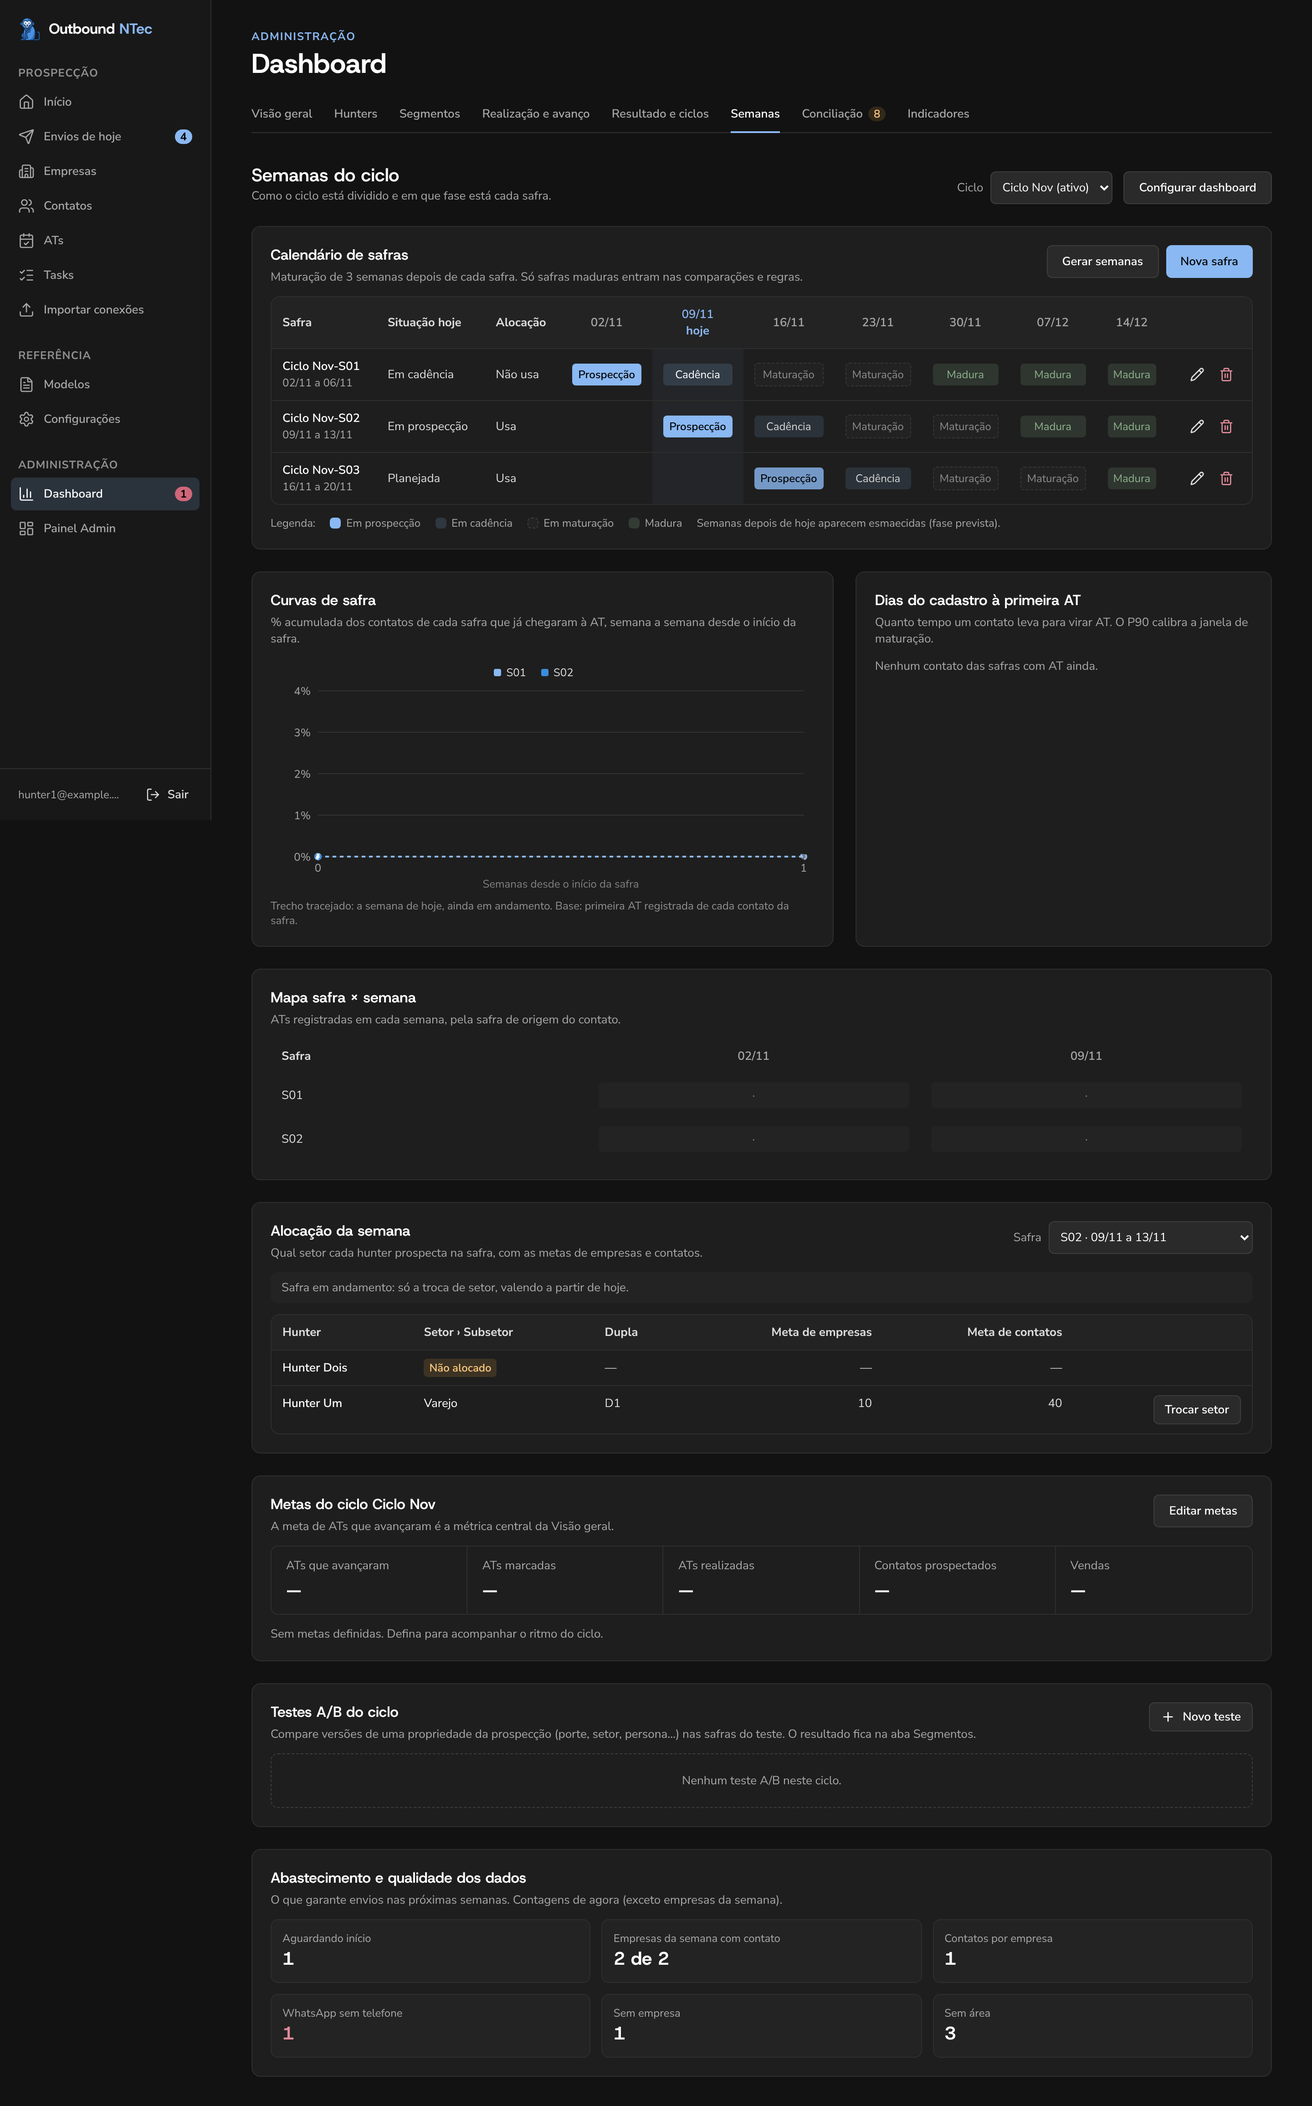
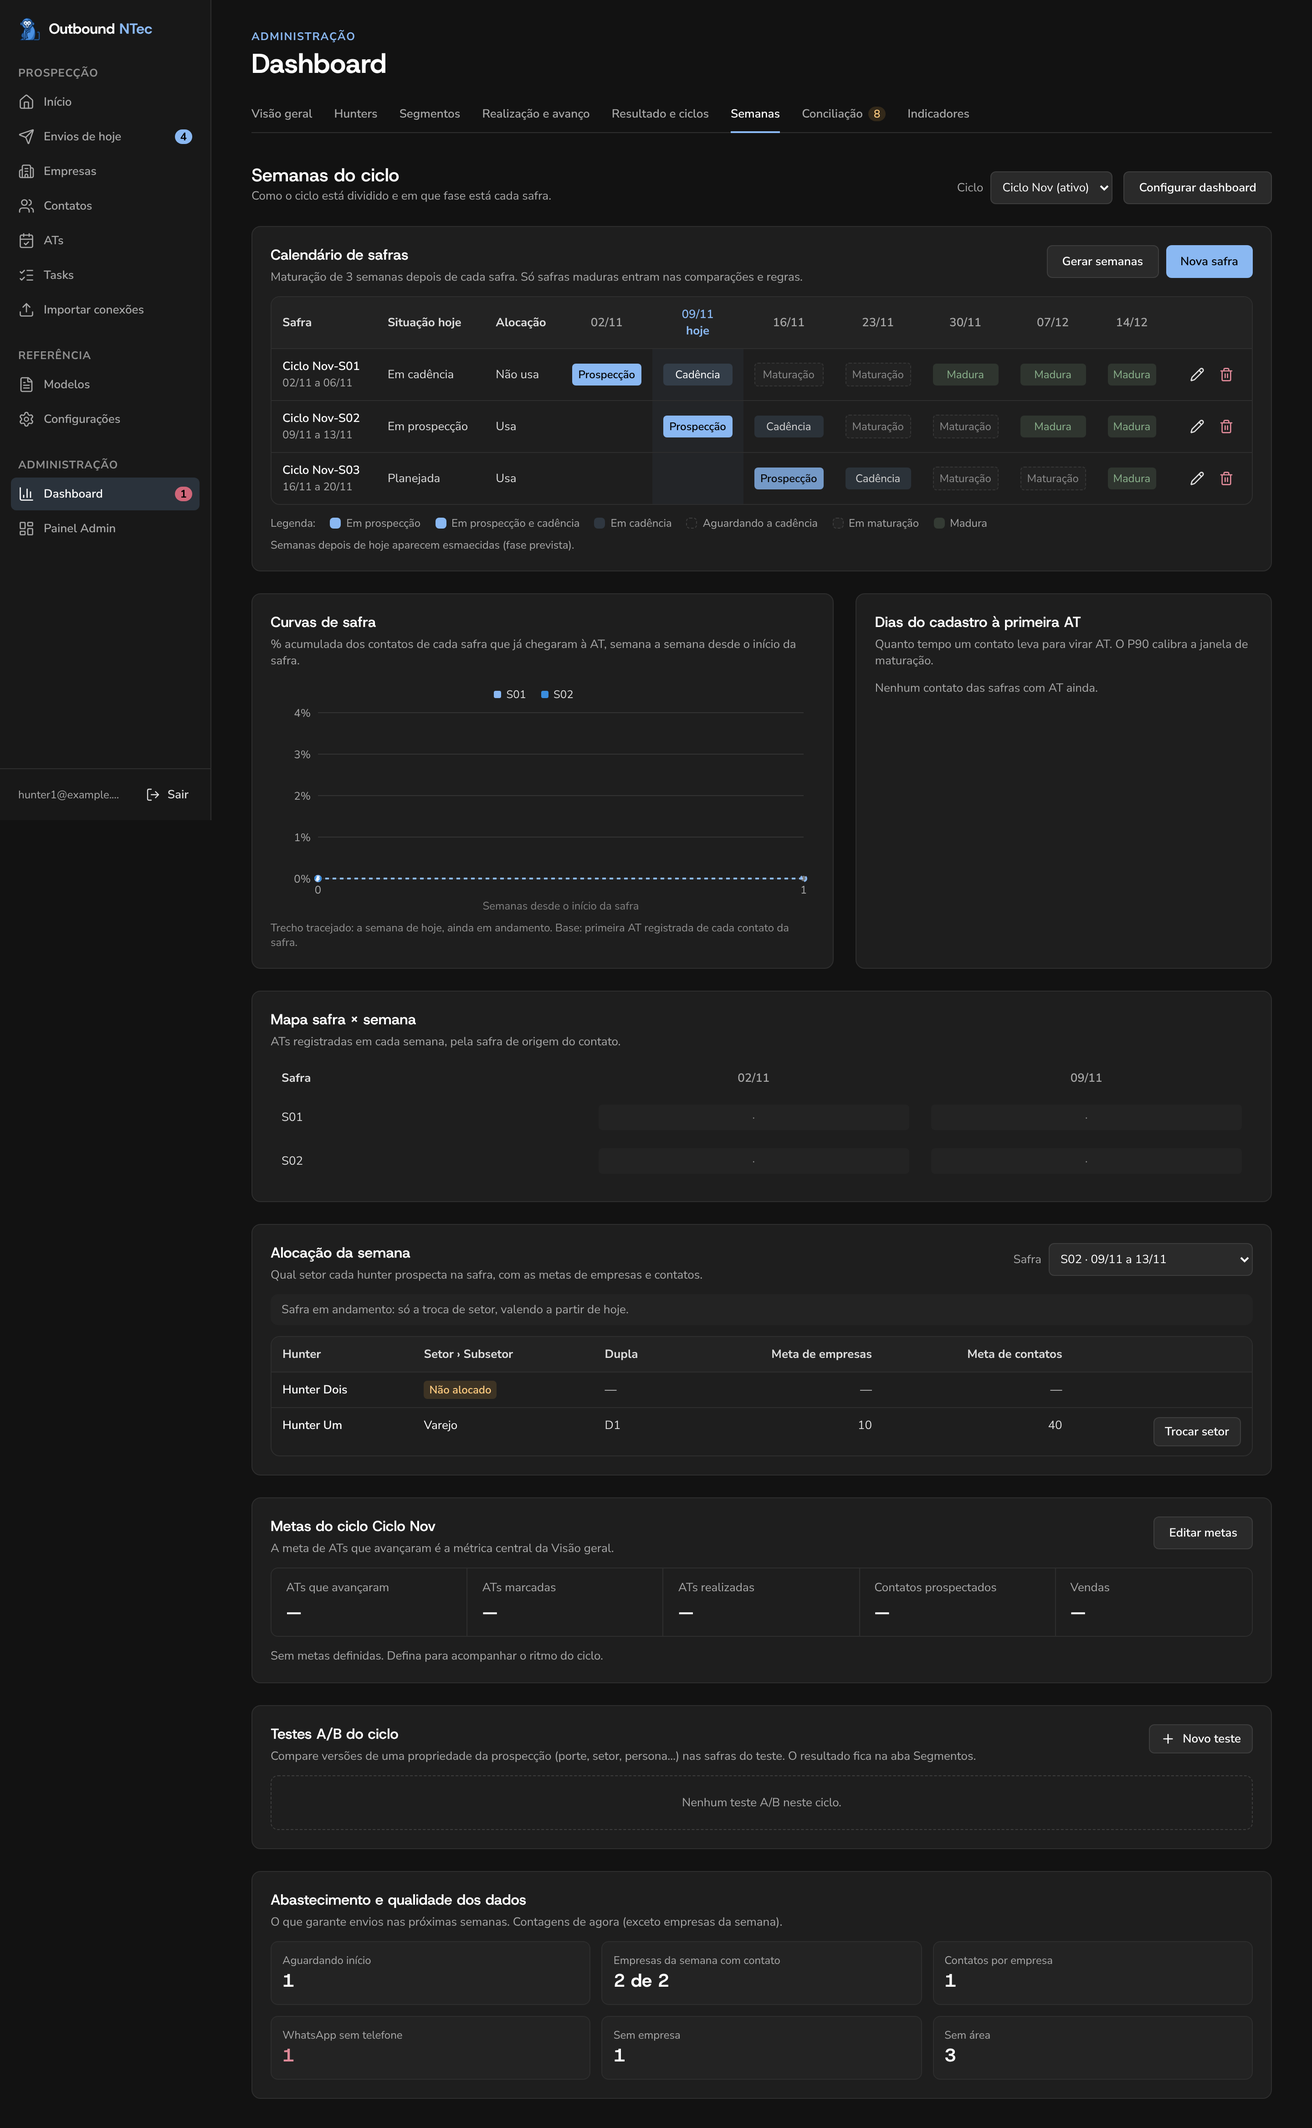
feat(painel): escolher a semana da cadência e marcar pausas nas safras
O diálogo da safra escolhe a semana da cadência; a prévia de "Gerar semanas"
marca, por semana, se gera a safra (desmarcada = pausa, ex.: provas) e se a
cadência é na mesma semana. O calendário mostra "Prosp. + cadência" e
"Pausa".

Claude-Session: https://claude.ai/code/session_0137A66yoRLBZ4ngndr6bSBF

diff --git a/src/components/dashboard/semanas/GerarSemanasDialog.tsx b/src/components/dashboard/semanas/GerarSemanasDialog.tsx
@@ -8,6 +8,7 @@ import {
   DialogHeader,
   DialogTitle,
 } from "@/components/ui/dialog";
+import { Checkbox } from "@/components/ui/checkbox";
 import { Input } from "@/components/ui/input";
 import { Label } from "@/components/ui/label";
 import { formatBR } from "@/lib/cadencia";
@@ -30,7 +31,11 @@ export function GerarSemanasDialog({
   atePadrao: string;
   /** Safras de todos os ciclos. */
   safras: readonly Safra[];
-  onGerar: (inicio: string, ate: string) => Promise<number>;
+  onGerar: (
+    inicio: string,
+    ate: string,
+    opcoes: { pausas: string[]; mesmaSemana: string[] },
+  ) => Promise<number>;
   onClose: () => void;
 }) {
   const [inicio, setInicio] = useState(inicioPadrao);
@@ -38,7 +43,16 @@ export function GerarSemanasDialog({
   const [erro, setErro] = useState<string | null>(null);
   const [salvando, setSalvando] = useState(false);
   const validas = !!inicio && !!ate && inicio <= ate;
-  const previa = validas ? semanasSugeridas(inicio, ate, safras, periodId) : [];
+  // Semanas sem trabalho (provas, recesso) e as de prospecção e cadência na mesma semana.
+  const [pausas, setPausas] = useState<string[]>([]);
+  const [mesmaSemana, setMesmaSemana] = useState<string[]>([]);
+  const candidatas = validas ? semanasSugeridas(inicio, ate, safras, periodId) : [];
+  const previa = validas
+    ? semanasSugeridas(inicio, ate, safras, periodId, { pausas, mesmaSemana })
+    : [];
+  const daSemana = new Map(previa.map((s) => [s.inicio, s]));
+  const alternar = (lista: string[], semana: string, on: boolean) =>
+    on ? [...lista, semana] : lista.filter((x) => x !== semana);
 
   async function enviar(e: FormEvent) {
     e.preventDefault();
@@ -47,7 +61,7 @@ export function GerarSemanasDialog({
     setSalvando(true);
     setErro(null);
     try {
-      await onGerar(inicio, ate);
+      await onGerar(inicio, ate, { pausas, mesmaSemana });
       onClose();
     } catch (err) {
       setErro(errorMessage(err));
@@ -60,7 +74,7 @@ export function GerarSemanasDialog({
   const ultima = previa.at(-1);
   return (
     <Dialog open onOpenChange={(o) => !o && onClose()}>
-      <DialogContent className="max-w-md">
+      <DialogContent className="max-h-[90vh] max-w-xl overflow-y-auto">
         <DialogHeader>
           <DialogTitle>Gerar semanas do {nomeCiclo}</DialogTitle>
           <DialogDescription>
@@ -96,8 +110,78 @@ export function GerarSemanasDialog({
                 : `Vai criar ${previa.length} safras: ${rotuloSafra(primeira.numero)} (${formatBR(primeira.inicio)}) a ${rotuloSafra(ultima.numero)} (${formatBR(ultima.inicio)}).`
               : "Nenhuma semana nova nesse intervalo."}
           </p>
+          {candidatas.length > 0 && (
+            <div className="overflow-x-auto rounded-lg border">
+              <table className="table-dense w-full">
+                <caption className="sr-only">Semanas do intervalo</caption>
+                <thead className="bg-surface-inset">
+                  <tr>
+                    <th scope="col" className="px-3 py-1.5 text-left">
+                      Semana
+                    </th>
+                    <th scope="col" className="px-3 py-1.5 text-center">
+                      Gerar
+                    </th>
+                    <th scope="col" className="px-3 py-1.5 text-center">
+                      Cadência na mesma semana
+                    </th>
+                    <th scope="col" className="px-3 py-1.5 text-left">
+                      Resultado
+                    </th>
+                  </tr>
+                </thead>
+                <tbody>
+                  {candidatas.map(({ inicio: semana }) => {
+                    const s = daSemana.get(semana);
+                    const dm = formatBR(semana).slice(0, 5);
+                    return (
+                      <tr key={semana}>
+                        <th scope="row" className="px-3 py-1.5 text-left font-normal">
+                          {dm}
+                        </th>
+                        <td className="px-3 py-1.5 text-center">
+                          <Checkbox
+                            aria-label={`Gerar a semana de ${dm}`}
+                            checked={!!s}
+                            onCheckedChange={(v) => setPausas(alternar(pausas, semana, v !== true))}
+                          />
+                        </td>
+                        <td className="px-3 py-1.5 text-center">
+                          <Checkbox
+                            aria-label={`Prospecção e cadência na mesma semana em ${dm}`}
+                            checked={mesmaSemana.includes(semana)}
+                            disabled={!s}
+                            onCheckedChange={(v) =>
+                              setMesmaSemana(alternar(mesmaSemana, semana, v === true))
+                            }
+                          />
+                        </td>
+                        <td className="px-3 py-1.5 text-muted-foreground">
+                          {s ? (
+                            <>
+                              <span className="font-semibold text-heading">
+                                {rotuloSafra(s.numero)}
+                              </span>{" "}
+                              · cadência{" "}
+                              {s.cadencia_em === s.inicio
+                                ? "na mesma semana"
+                                : `em ${formatBR(s.cadencia_em).slice(0, 5)}`}
+                            </>
+                          ) : (
+                            "Pausa (sem safra)"
+                          )}
+                        </td>
+                      </tr>
+                    );
+                  })}
+                </tbody>
+              </table>
+            </div>
+          )}
           <p className="text-caption text-muted-foreground">
-            As safras novas usam alocação. Desligue depois nas semanas anteriores ao esquema.
+            Desmarque "Gerar" nas semanas sem trabalho (ex.: provas): elas ficam sem safra e a
+            cadência da safra anterior passa para a próxima semana gerada. As safras novas usam
+            alocação; desligue depois nas semanas anteriores ao esquema.
           </p>
           {erro && (
             <p role="alert" className="text-dense text-destructive-text">

diff --git a/src/components/dashboard/semanas/SafraDialog.tsx b/src/components/dashboard/semanas/SafraDialog.tsx
@@ -11,6 +11,7 @@ import {
 } from "@/components/ui/dialog";
 import { Input } from "@/components/ui/input";
 import { Label } from "@/components/ui/label";
+import { NativeSelect } from "@/components/ui/native-select";
 import { addDaysISO, formatBR } from "@/lib/cadencia";
 import { erroSafra, rotuloSafra, type Safra, type SafraForm } from "@/lib/safras";
 import { errorMessage } from "@/lib/utils";
@@ -57,6 +58,14 @@ export function SafraDialog({
     }
   }
 
+  const semanasAteACadencia = f.inicio
+    ? Math.max(
+        0,
+        Math.round(
+          (Date.parse(f.cadencia_em || f.inicio) - Date.parse(f.inicio)) / (7 * 86_400_000),
+        ),
+      )
+    : 1;
   return (
     <Dialog open onOpenChange={(o) => !o && onClose()}>
       <DialogContent className="max-w-md">
@@ -89,8 +98,15 @@ export function SafraDialog({
                 value={f.inicio}
                 onChange={(e) => {
                   const inicio = e.target.value;
-                  // Ao trocar o início, o fim acompanha (sexta da mesma semana).
-                  setF({ ...f, inicio, fim: inicio ? addDaysISO(inicio, 4) : f.fim });
+                  // Ao trocar o início, o fim (sexta) e a cadência acompanham.
+                  setF({
+                    ...f,
+                    inicio,
+                    fim: inicio ? addDaysISO(inicio, 4) : f.fim,
+                    cadencia_em: inicio
+                      ? addDaysISO(inicio, semanasAteACadencia * 7)
+                      : f.cadencia_em,
+                  });
                 }}
               />
             </div>
@@ -103,6 +119,33 @@ export function SafraDialog({
                 onChange={(e) => setF({ ...f, fim: e.target.value })}
               />
             </div>
+          </div>
+          <div className="space-y-1.5">
+            <Label htmlFor="safra-cadencia" className="block">
+              Cadência
+            </Label>
+            <NativeSelect
+              id="safra-cadencia"
+              className="w-full"
+              value={String(semanasAteACadencia)}
+              onChange={(e) =>
+                setF({ ...f, cadencia_em: addDaysISO(f.inicio, Number(e.target.value) * 7) })
+              }
+              aria-describedby="safra-cadencia-ajuda"
+            >
+              {[0, 1, 2, 3, 4].map((k) => (
+                <option key={k} value={k}>
+                  {k === 0
+                    ? "Na mesma semana da prospecção"
+                    : `${k === 1 ? "Semana seguinte" : `${k} semanas depois`}${f.inicio ? ` (${formatBR(addDaysISO(f.inicio, k * 7)).slice(0, 5)})` : ""}`}
+                </option>
+              ))}
+            </NativeSelect>
+            <p id="safra-cadencia-ajuda" className="text-caption text-muted-foreground">
+              Depois de uma semana sem trabalho (ex.: provas), a cadência vai para a próxima semana
+              de trabalho. A maturação conta da semana da prospecção (ou da cadência, se for na
+              mesma semana).
+            </p>
           </div>
           <div className="flex items-start gap-2">
             <Checkbox

diff --git a/e2e/dashboard-semanas.spec.ts b/e2e/dashboard-semanas.spec.ts
@@ -51,6 +51,9 @@ test.describe("Dashboard › Semanas", () => {
     expect(await mutations()).toEqual([]);
 
     await dialog.getByLabel("Início (segunda)").fill("2026-11-23");
+    // Padrão: cadência na semana seguinte; aqui, prospecção e cadência na mesma semana.
+    await expect(dialog.getByLabel("Cadência")).toHaveValue("1");
+    await dialog.getByLabel("Cadência").selectOption({ label: "Na mesma semana da prospecção" });
     await dialog.getByRole("button", { name: "Criar safra" }).click();
     await expect(page.getByText("S04 criada")).toBeVisible();
     const [m] = await mutations();
@@ -60,6 +63,7 @@ test.describe("Dashboard › Semanas", () => {
       inicio: "2026-11-23",
       fim: "2026-11-27",
       usa_alocacao: true,
+      cadencia_em: "2026-11-23",
       period_id: P1,
     });
   });
@@ -78,6 +82,33 @@ test.describe("Dashboard › Semanas", () => {
     expect(JSON.parse(m!.body).map((s: { numero: number; inicio: string }) => s.inicio)).toEqual([
       "2026-11-23",
       "2026-11-30",
+    ]);
+  });
+
+  test("gera semanas com uma pausa (provas) e a cadência na próxima semana gerada", async ({
+    page,
+  }) => {
+    await page.goto("/dashboard?aba=semanas");
+    await page.getByRole("button", { name: "Gerar semanas" }).click();
+    const dialog = page.getByRole("dialog", { name: "Gerar semanas do Ciclo Nov" });
+    await dialog.getByLabel("Até").fill("2026-12-07");
+    await dialog.getByRole("checkbox", { name: "Gerar a semana de 30/11" }).uncheck();
+    await dialog
+      .getByRole("checkbox", { name: "Prospecção e cadência na mesma semana em 23/11" })
+      .check();
+    await expect(dialog.getByRole("row", { name: /^30\/11/ })).toContainText("Pausa (sem safra)");
+    await expect(dialog.getByRole("row", { name: /^23\/11/ })).toContainText(
+      "S04 · cadência na mesma semana",
+    );
+    await expect(dialog.getByRole("row", { name: /^07\/12/ })).toContainText(
+      "S05 · cadência em 14/12",
+    );
+    await dialog.getByRole("button", { name: "Gerar semanas" }).click();
+    await expect(page.getByText("2 safras criadas")).toBeVisible();
+    const [m] = await mutations();
+    expect(JSON.parse(m!.body)).toEqual([
+      expect.objectContaining({ numero: 4, inicio: "2026-11-23", cadencia_em: "2026-11-23" }),
+      expect.objectContaining({ numero: 5, inicio: "2026-12-07", cadencia_em: "2026-12-14" }),
     ]);
   });
 

diff --git a/src/components/dashboard/semanas/CalendarioSafras.tsx b/src/components/dashboard/semanas/CalendarioSafras.tsx
@@ -16,17 +16,31 @@ type Fase = NonNullable<CelulaSafra["fase"]>;
 /** Cor de cada fase (DESIGN.md, seção 6c): a prospecção é a única cheia, para saltar à vista. */
 const FASE_CLASSE: Record<Fase, string> = {
   em_prospeccao: "bg-primary text-primary-foreground font-semibold",
+  // Mesma cor da prospecção, com contorno para distinguir na legenda.
+  em_prospeccao_cadencia:
+    "bg-primary text-primary-foreground font-semibold ring-2 ring-inset ring-primary-soft",
+  // Semana sem trabalho entre a prospecção e a cadência (ex.: provas).
+  aguardando_cadencia: "border border-dashed border-input text-subtle-foreground",
   em_cadencia: "bg-primary-soft text-heading",
   em_maturacao: "border border-dashed border-input bg-surface-inset text-muted-foreground",
   madura: "bg-success-soft text-success",
 };
 const FASE_CURTA: Record<Fase, string> = {
   em_prospeccao: "Prospecção",
+  em_prospeccao_cadencia: "Prosp. + cadência",
+  aguardando_cadencia: "Pausa",
   em_cadencia: "Cadência",
   em_maturacao: "Maturação",
   madura: "Madura",
 };
-const LEGENDA: Fase[] = ["em_prospeccao", "em_cadencia", "em_maturacao", "madura"];
+const LEGENDA: Fase[] = [
+  "em_prospeccao",
+  "em_prospeccao_cadencia",
+  "em_cadencia",
+  "aguardando_cadencia",
+  "em_maturacao",
+  "madura",
+];
 
 const ddmm = (iso: string) => formatBR(iso).slice(0, 5);
 

diff --git a/src/components/dashboard/hunters/FichaHunter.tsx b/src/components/dashboard/hunters/FichaHunter.tsx
@@ -130,16 +130,18 @@ export function FichaHunter({
           <section aria-label="Fila de cadência" className="rounded-lg border p-4">
             <h3 className="text-dense font-semibold text-heading">
               Fila de cadência
-              {d.safraAnterior && (
+              {d.safraCadencia && (
                 <span className="font-normal text-muted-foreground">
                   {" "}
-                  · {rotuloSafra(d.safraAnterior.numero)} ({ddmm(d.safraAnterior.inicio)} a{" "}
-                  {ddmm(d.safraAnterior.fim)})
+                  · {rotuloSafra(d.safraCadencia.numero)} ({ddmm(d.safraCadencia.inicio)} a{" "}
+                  {ddmm(d.safraCadencia.fim)})
                 </span>
               )}
             </h3>
-            {!d.safraAnterior && (
-              <p className="mt-1 text-dense text-muted-foreground">Primeira safra do ciclo.</p>
+            {!d.safraCadencia && (
+              <p className="mt-1 text-dense text-muted-foreground">
+                Nenhuma safra em cadência nesta semana.
+              </p>
             )}
             <dl className="mt-3 grid grid-cols-2 gap-3">
               <Numero rotulo="Em cadência" valor={num(c.emCadencia)} />

diff --git a/src/components/dashboard/semanas/SemanasTab.tsx b/src/components/dashboard/semanas/SemanasTab.tsx
@@ -91,6 +91,7 @@ export function SemanasTab({ ask }: { ask: Ask }) {
       inicio,
       fim: addDaysISO(inicio, 4),
       usa_alocacao: true,
+      cadencia_em: addDaysISO(inicio, 7),
     };
   })();
 
@@ -225,6 +226,7 @@ export function SemanasTab({ ask }: { ask: Ask }) {
             inicio: aberto.safra.inicio,
             fim: aberto.safra.fim,
             usa_alocacao: aberto.safra.usa_alocacao,
+            cadencia_em: aberto.safra.cadencia_em,
           }}
           editando={aberto.safra}
           outras={outras(aberto.safra.id)}
@@ -239,8 +241,8 @@ export function SemanasTab({ ask }: { ask: Ask }) {
           inicioPadrao={proxima.inicio}
           atePadrao={ate < proxima.inicio ? addDaysISO(proxima.inicio, 4) : ate}
           safras={data.safras}
-          onGerar={async (inicio, fim) => {
-            const n = await acoes.gerar(ciclo.id, inicio, fim);
+          onGerar={async (inicio, fim, opcoes) => {
+            const n = await acoes.gerar(ciclo.id, inicio, fim, opcoes);
             toast.success(n === 1 ? "1 safra criada" : `${n} safras criadas`);
             return n;
           }}

diff --git a/docs/redesign/DESIGN.md b/docs/redesign/DESIGN.md
@@ -237,7 +237,11 @@ Maturação `bg-surface-inset` com borda tracejada, Madura `bg-success-soft text
 de hoje tem o cabeçalho em `text-primary` com "hoje" e fundo `bg-primary/5`; semanas depois de
 hoje ficam com `opacity-80` (fase prevista; mais apagado que isso derruba o contraste do texto
 abaixo de 4,5:1). Abaixo, o cartão de metas do ciclo; parâmetros num diálogo "Configurar
-dashboard".
+dashboard". Safra com prospecção e cadência na mesma semana mostra "Prosp. + cadência" (cor da
+prospecção, com contorno `primary-soft`); a semana sem trabalho entre a prospecção e a cadência
+(ex.: provas) mostra "Pausa" com borda tracejada. O diálogo da safra escolhe a semana da cadência, e
+a prévia de "Gerar semanas" tem, por semana, "Gerar" (desmarcado = pausa, sem safra) e "Cadência na
+mesma semana".
 
 **Alocação da semana** (mesma aba, entre o calendário e as metas): seletor de safra no cabeçalho,
 faixa `bg-surface-inset` dizendo o que pode ser feito (livre antes da safra, só troca de setor
